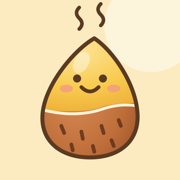
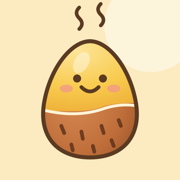
Round off the top of the sweet potato

Changed region(s): [[0.2222, 0.1944, 0.7778, 0.5833], [0.6111, 0.5833, 0.7778, 0.8889], [0.2222, 0.6111, 0.3889, 0.8889]]

diff --git a/index.html b/index.html
@@ -110,7 +110,7 @@ details.prev pre{margin:0;padding:0 18px 16px;font-family:inherit;font-size:14px
       <feTurbulence type="fractalNoise" baseFrequency="0.04" numOctaves="2" seed="4" result="n"/>
       <feDisplacementMap in="SourceGraphic" in2="n" scale="2.4" xChannelSelector="R" yChannelSelector="G"/>
     </filter>
-    <clipPath id="bodyClip"><path d="M53 9C64 16 81 38 83 60C85 80 71 92 50 92C29 92 15 80 17 61C19 41 39 17 53 9Z"/></clipPath>
+    <clipPath id="bodyClip"><path d="M50 11C63 11 78 30 82 54C86 78 72 92 50 92C28 92 14 78 18 54C22 30 37 11 50 11Z"/></clipPath>
     <radialGradient id="gFlesh" cx="40%" cy="28%" r="72%"><stop offset="0" stop-color="#FDE59A"/><stop offset=".6" stop-color="#F8CB4E"/><stop offset="1" stop-color="#EFB13A"/></radialGradient>
     <radialGradient id="gSkin" cx="35%" cy="45%" r="75%"><stop offset="0" stop-color="#D88C55"/><stop offset=".7" stop-color="#BF6E3A"/><stop offset="1" stop-color="#A35A2D"/></radialGradient>
   </defs>
@@ -313,7 +313,7 @@ details.prev pre{margin:0;padding:0 18px 16px;font-family:inherit;font-size:14px
   // ---------- 地瓜插畫 ----------
   var LINE = '#5A3A22';
   // 地瓜：直立的水滴形，上尖下圓，上半黃肉、下半帶紋路的皮
-  var BODY = 'M53 9C64 16 81 38 83 60C85 80 71 92 50 92C29 92 15 80 17 61C19 41 39 17 53 9Z';
+  var BODY = 'M50 11C63 11 78 30 82 54C86 78 72 92 50 92C28 92 14 78 18 54C22 30 37 11 50 11Z';
   var FLESH = 'M0 0H100V52C88 56 72 52 58 57C44 62 28 58 0 61Z';
   var FACES = {
     smile: '<circle cx="41" cy="35" r="2.8" fill="'+LINE+'"/><circle cx="59" cy="35" r="2.8" fill="'+LINE+'"/><path d="M44 41q6 6 12 0" fill="none" stroke="'+LINE+'" stroke-width="2.6" stroke-linecap="round"/>',
